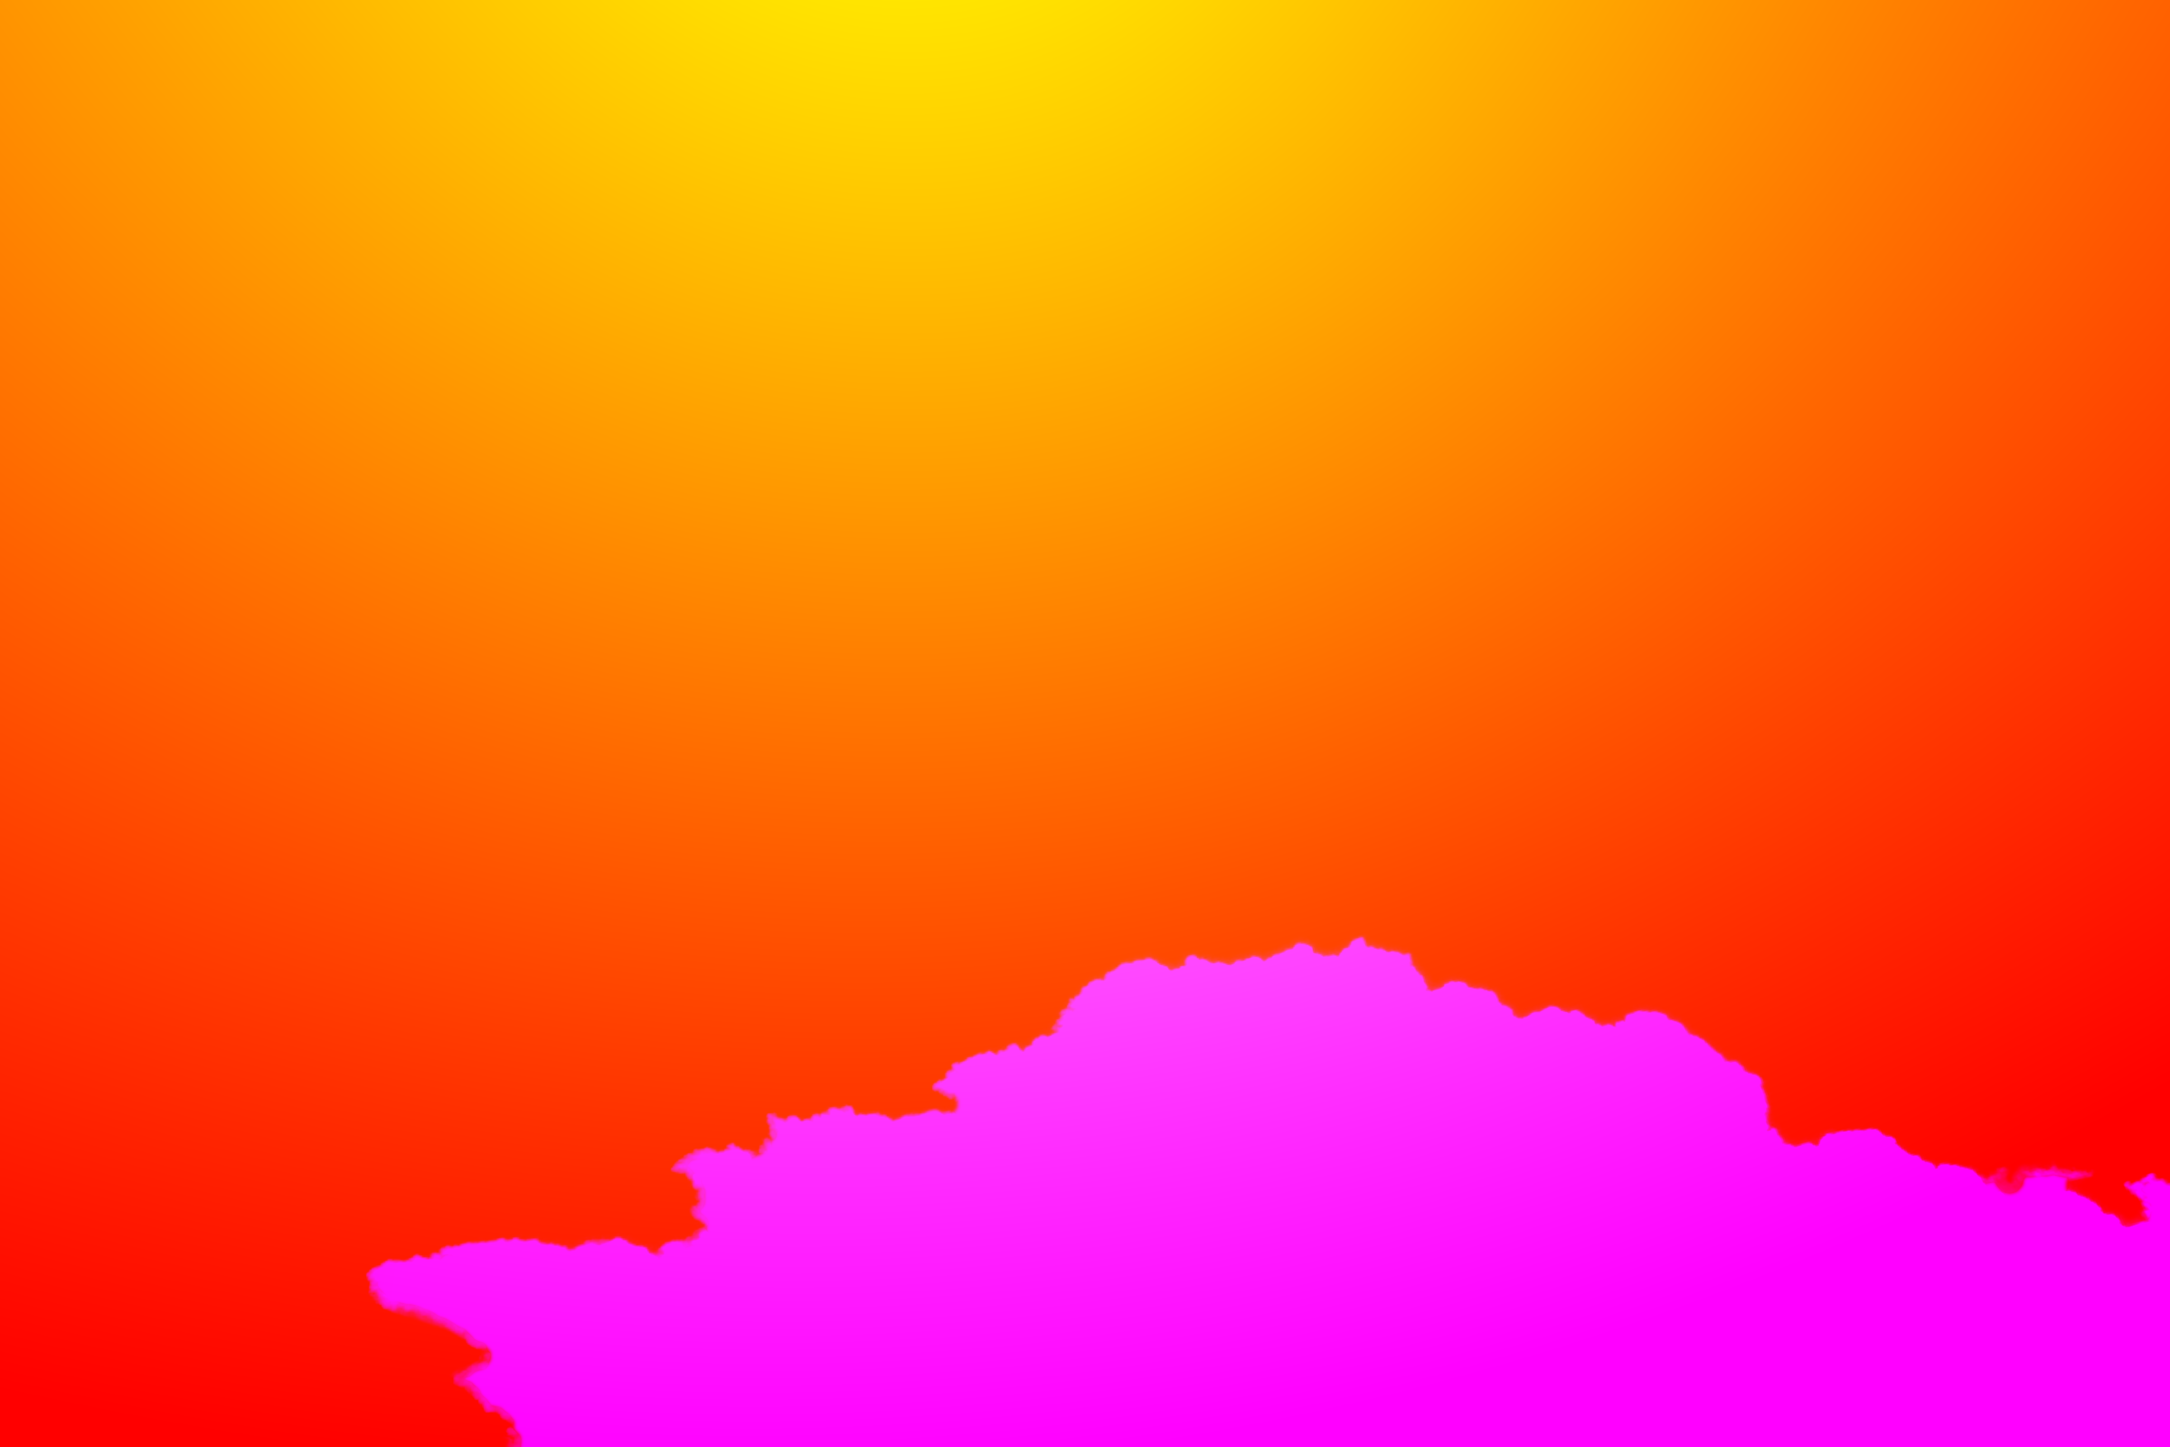
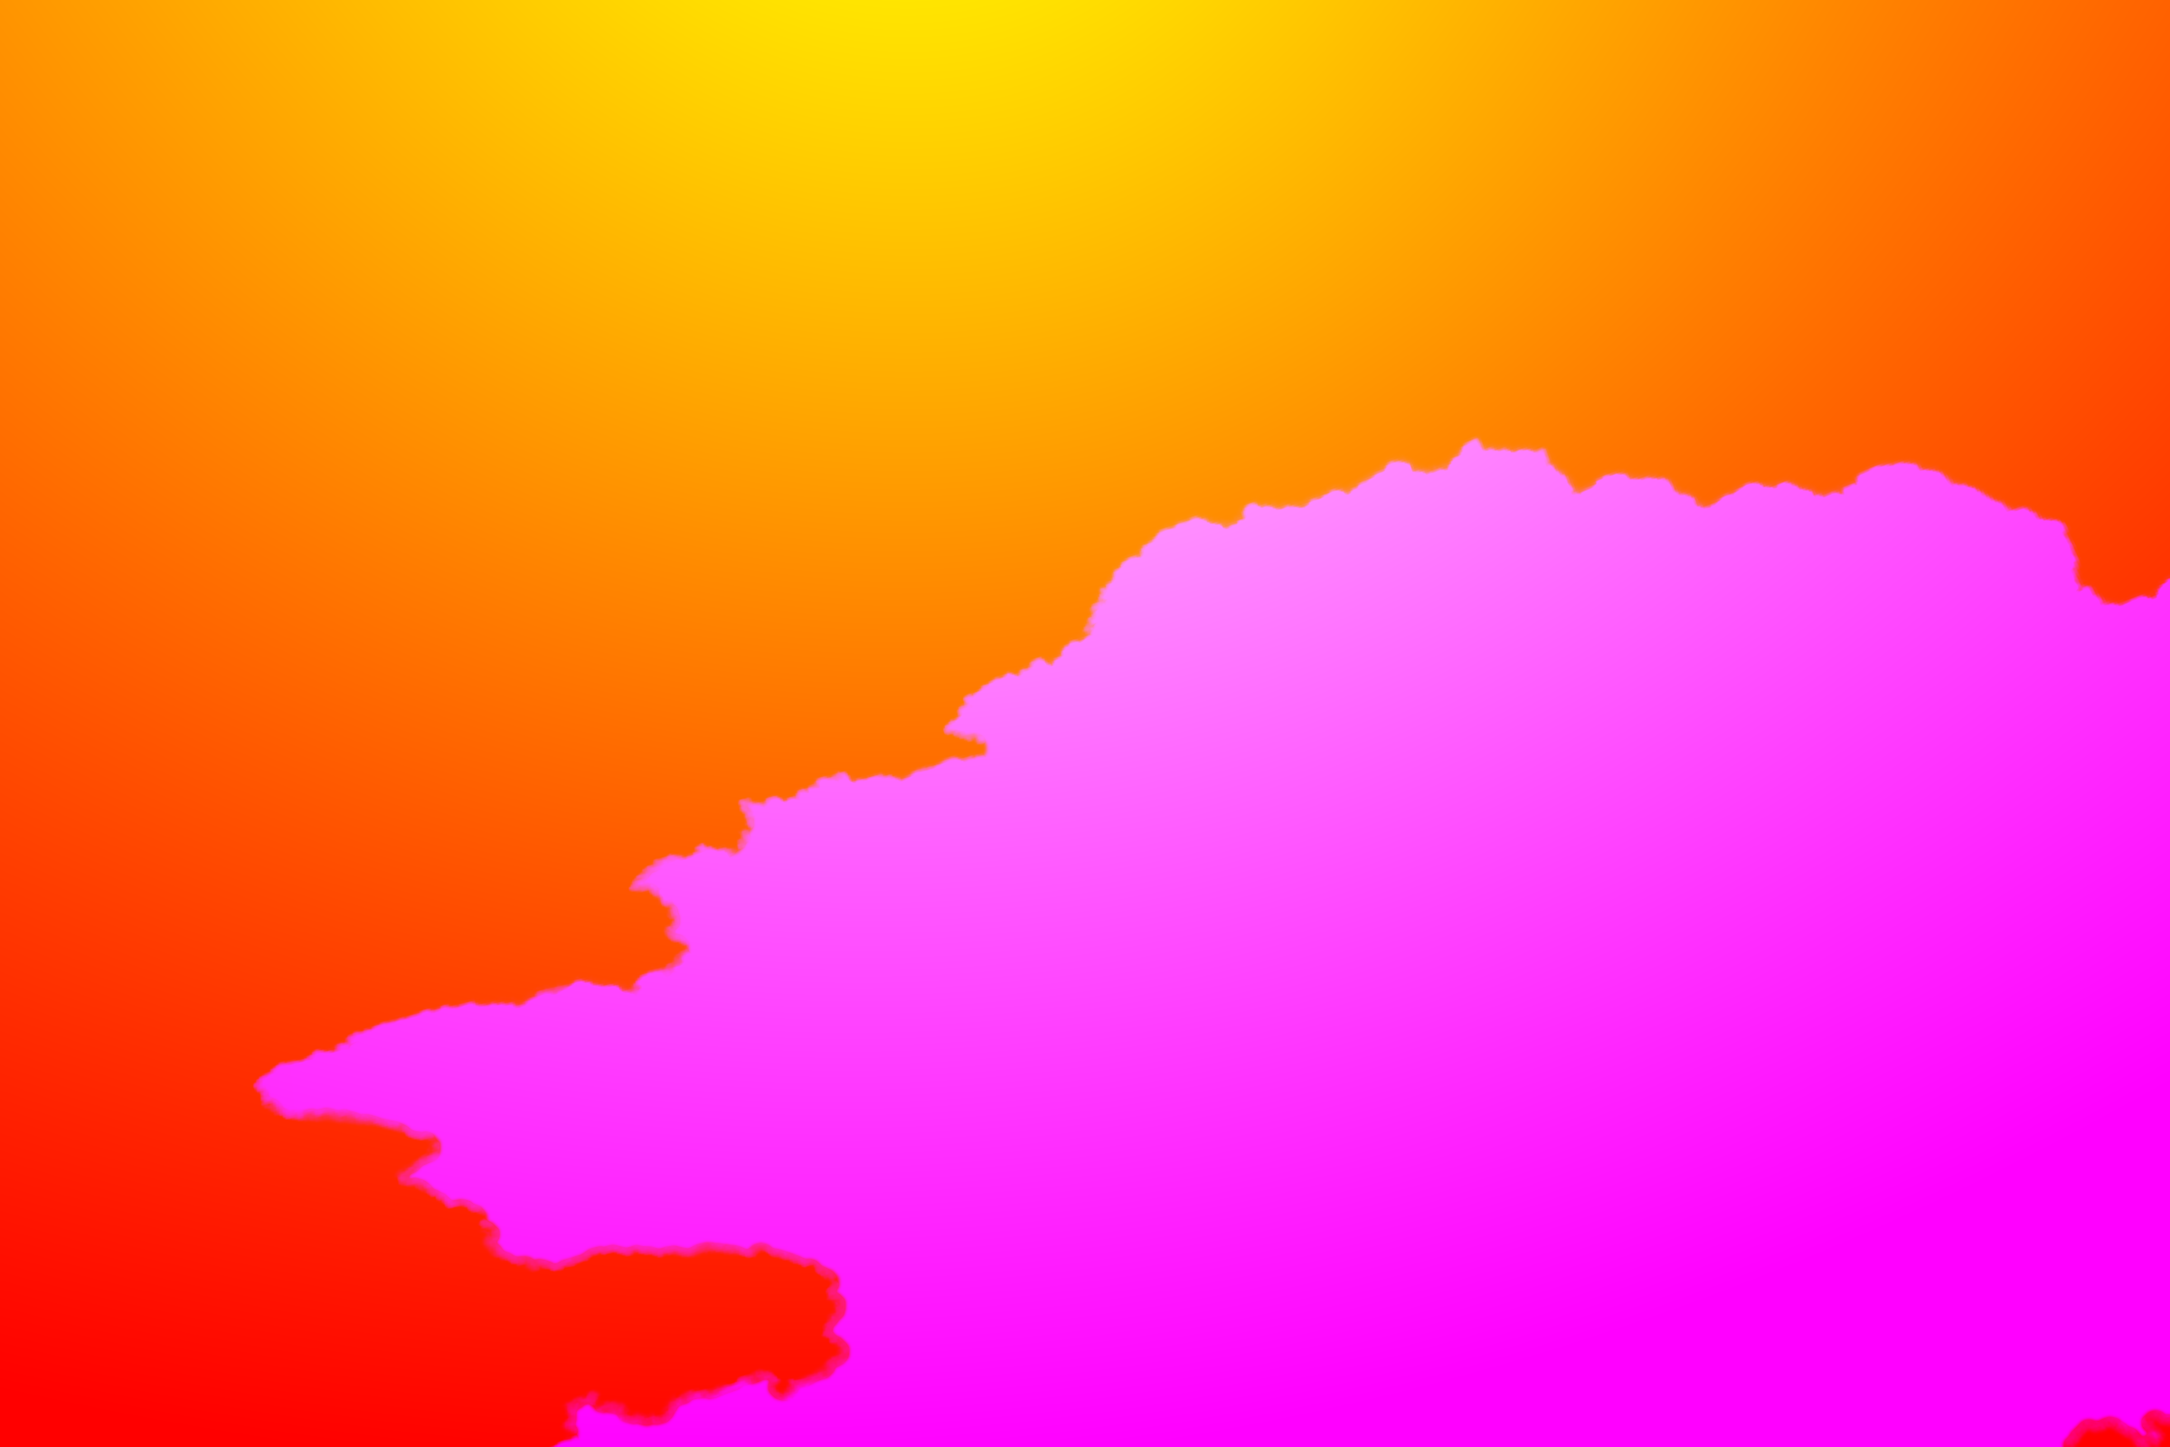
Lab: climb denchuka round 1
Claude-Session: https://claude.ai/code/session_01RqENhngNCzDFmJWDZueXGV

Changed region(s): [[0.125, 0.2812, 1.0, 1.0], [0.9375, 0.9688, 1.0, 1.0]]

diff --git a/src/app/lab/denchuka/denchukaEngine.js b/src/app/lab/denchuka/denchukaEngine.js
@@ -41,12 +41,12 @@ import { createFilm, FILM_PRESETS } from "../_kit/film";
 // diffusion and a warm halation ring keyed on luminance (GLOW), the ring the
 // only glow round the cumulus's edge, then its curve. The shaft and hardware
 // are graded as their own element (solidGrade): from directly beneath, the
-// concrete is in its own shade against a bright sky, a neutral-warm mid grey
+// concrete is in its own shade against a bright sky, a neutral-warm dark grey
 // with one narrow sunlit sliver, the firm dark anchor in front of the cloud.
 //
-// Behind the pole stands a real towering cumulus, its sunlit upper tower
-// rising out of the bottom of the frame behind the shaft, crown just under
-// the pole head, clear cobalt over it (cloud.py: Poly Haven's Skidpan HDRI,
+// Behind the pole stands a real towering cumulus, rising out of the bottom of
+// the frame behind the shaft and filling the right half of it, its crown up
+// behind the transformers, clear cobalt over it (cloud.py: Poly Haven's Skidpan HDRI,
 // CC0, cut at its own resolution and placed under this camera so its
 // verticals converge with the pole's), laid into the same regrade through
 // the same matte (sky.png B its soft coverage, cloud.webp its unmixed
@@ -186,50 +186,53 @@ vec3 skyGrade(vec3 c, float zen) {
 }
 // The towering cumulus (cloud.py: a photographed tower, unclipped, placed
 // under this camera) graded into the same light, so it glows and carries the
-// frame. Its upper half is sunlit: from the foot of the roll-off (~0.6 in the
-// bake) to the crowns it runs ~0.77-0.975 in the sun's own warm neutral, each
-// billow keeping its drawing, none of it clipped. Its body, in its own shade,
-// lit only by the sky, is a grey-blue (~205): its billows stretched about the
-// bake's shade so the folds between them go down to ~0.58 and the lobes come
-// up to ~0.76, a little deeper and bluer the higher up the sky it is (the
-// cobalt ramp, zen). One lightness curve runs through shade and sun, so no
-// lobe's edge steps or rings. The sun on the crowns is the same
+// frame: the bright subject the dark pole cuts across. Its upper half is
+// sunlit: from the foot of the roll-off (~0.6 in the bake) to the crowns it
+// runs ~0.87-0.985 in the sun's own warm neutral (the crowns at ~245-250 on
+// screen), each billow keeping its drawing, none of it clipped. Its body, in
+// its own shade, is lit by a whole bright summer sky and is still a lit white
+// (~0.82-0.88, ~190-215 on screen), only faintly skylight blue (~205): its
+// billows stretched about the bake's shade (x1.6) so the folds between them
+// go down to ~0.75 and no further (a deeper stretch reads as an overcast grey
+// mass, and mottles), a little deeper and bluer the higher up the sky it is
+// (the cobalt ramp, zen). One lightness curve runs through shade and sun, so
+// no lobe's edge steps or rings. The sun on the crowns is the same
 // sun as the concrete, a warm neutral (#fff9f3) that the film's own warmth
 // carries the rest of the way.
 const vec3 SUN = vec3(1.0, 0.978, 0.952);
 vec3 cloudGrade(vec3 c, float zen) {
   float v = dot(c, vec3(0.2126, 0.7152, 0.0722));
   // one lightness curve through shade and sun, so a lobe's edge never steps:
-  // the shade's billows stretched (x2.2 about the bake's ~0.58, the folds
-  // between them down to ~0.58, its lit lobes up to ~0.76), then a gentler
-  // run up through the sunlit flanks to the crowns (~0.975)
-  float L = v < 0.58 ? 0.76 + (v - 0.58) * 2.2 : 0.76 + (v - 0.58) * 0.55;
-  L = clamp(L, 0.5, 0.975);
+  // the shade's billows stretched (x1.6 about the bake's ~0.58, the folds
+  // between them down to ~0.75, its lit lobes up to ~0.86), then a gentler
+  // run up through the sunlit flanks to the crowns (~0.985)
+  float L = v < 0.58 ? 0.86 + (v - 0.58) * 1.6 : 0.86 + (v - 0.58) * 0.4;
+  L = clamp(L, 0.62, 0.985);
   // how much of the sun this face sees: its colour only, wide and soft
   float top = smoothstep(0.56, 0.86, v);
-  // skylight: a clear blue (hue ~206) in the shade pockets, deeper and a
-  // touch bluer up the sky, its saturation falling as a billow catches more
+  // skylight: a faint clear blue (hue ~206) in the shade pockets, deeper and
+  // a touch bluer up the sky, its saturation falling as a billow catches more
   // light; never pale cyan, never a dead grey
-  float ss = mix(0.3, 0.13, smoothstep(0.6, 0.88, L)) * mix(0.95, 1.1, zen);
+  float ss = mix(0.17, 0.07, smoothstep(0.8, 0.95, L)) * mix(0.95, 1.1, zen);
   vec3 shadeC = hsv2rgb(vec3((205.0 + 3.0 * zen) / 360.0, ss, L * mix(1.0, 0.97, zen)));
   vec3 sunC = SUN * L;
   return mix(shadeC, sunC, top);
 }
 // The concrete, seen from directly beneath: the face the camera sees is the
 // shaft's underside, in its own shade against a bright sky, so the pole is the
-// frame's one firm mid-dark silhouette, never a match for the cloud behind it.
+// frame's one firm dark silhouette, cut across the glowing tower behind it.
 // The scan has it lit and pale (its sunlit two thirds at ~0.66-0.86, the
-// shade third ~0.27-0.37, both close to the cumulus's ~0.74-0.96). Its value
-// is pulled down and compressed: the shade third to ~0.3, the body to a
-// neutral-warm mid grey (~0.40-0.50), and only the last sliver on the lit side,
-// where the scan is brightest, rises to ~0.65. Its darks (bolts, wires across
+// shade third ~0.27-0.37, both close to the cumulus's ~0.8-0.98). Its value
+// is pulled down and compressed: the shade third to ~0.25, the body to a
+// neutral-warm dark grey (~0.28-0.35, ~70-90 on screen), and only the last
+// sliver on the lit side, where the scan is brightest, rises to ~0.5-0.6. Its darks (bolts, wires across
 // it, the transformers' undersides) keep their own value. Colour: a neutral
 // warm grey (hue ~35, chroma near zero), with a trace of the scan's own so
 // its stains and seams stay in it. The hardware's lit faces take the same.
 vec3 solidGrade(vec3 c) {
   float v = dot(c, vec3(0.2126, 0.7152, 0.0722));
-  float body = 0.29 + 0.21 * smoothstep(0.22, 0.8, v);
-  float g = min(body, v + 0.03) + 0.15 * smoothstep(0.85, 0.91, v);
+  float body = 0.25 + 0.1 * smoothstep(0.22, 0.8, v);
+  float g = min(body, v + 0.03) + 0.2 * smoothstep(0.85, 0.91, v);
   vec3 tint = vec3(1.022, 0.998, 0.968);
   vec3 chroma = (c - vec3(v)) * (g / max(v, 0.05));
   return clamp(g * tint + 0.12 * chroma, 0.0, 1.0);

diff --git a/tools/depth/bakes/denchuka/cloud.py b/tools/depth/bakes/denchuka/cloud.py
@@ -8,9 +8,10 @@
 #
 # The scan's sky has no cloud worth the name: a few wisps and a grey fragment cut
 # off at the top right. This puts a real, photographed towering cumulus behind
-# the pole as the clean sky's subject: its sunlit upper tower rises out of the
-# bottom of the frame behind the shaft, crown just under the pole head, with
-# clear cobalt over it, its anvil shelf running out to the left, so each
+# the pole as the frame's bright subject: the tower rises out of the bottom of
+# the frame behind the shaft and fills its right half, its crown up behind the
+# transformers, so the dark pole and its hardware cut across glowing cloud,
+# with clear cobalt over it and its anvil shelf running out to the left. Each
 # removal (the wires, then the hardware, then the pole) uncovers more of it and
 # the clean sky at the end has a subject.
 #
@@ -23,17 +24,16 @@
 # from elements.json, export.py): the cloud stands in a vertical plane through
 # the zenith, so its verticals converge on the same vanishing point as the
 # pole's, and the camera's roll tilts it with the pole. It is cut from the 16k
-# HDRI at its own resolution: 1.5 times its angles, which makes one HDRI pixel
-# one plate pixel, so its billows are as sharp as the photograph's wires and
-# the two read as one exposure. (A bigger tower, blown up from the HDRI, went
-# soft and pasted-in.) At that size the HDRI's tower, 27.6 deg up at its
-# crown, has only ~12 deg of cloud over the tree in front of its flank, so
-# it is set low in the frame, crown at plate (1300, 1010) just under the pole
-# head, turned LEAN degrees about its crown so its lower edge runs with the
-# frame's: the HDRI's tree line, and the lower body under it, stay below the
-# bottom of the frame. The only cloud on screen is the sunlit upper tower,
-# rising out of the bottom of the frame behind the shaft, with clear cobalt
-# over it.
+# HDRI at nearly its own resolution: 2 times its angles, about 0.72 HDRI pixel
+# to a plate pixel, so its billows stay close to as sharp as the photograph's
+# wires and the two read as one exposure. (Much bigger, blown up from the HDRI,
+# it went soft and pasted-in; at 1.5, one to one, it was too small to stand
+# behind the pole head without the HDRI's ground coming into the frame.) Its
+# crown is at plate (1350, 500), up behind the transformers, turned LEAN
+# degrees about it; the tower then fills the right half of the frame down to
+# its bottom edge, and the eucalyptus that stands under its crown in the HDRI
+# is replaced with the tower's own body (the ground, below): the HDRI's fence
+# line under that stays below the bottom of the frame.
 #
 # Matte: the sky in the HDRI is a saturated blue, the cloud near neutral, so
 # the cloud's coverage is how far a pixel's blue excess q = (B - R) / (B + R)
@@ -72,12 +72,12 @@ preview = sys.argv[3] if len(sys.argv) > 3 else None
 U_CROWN, EL_CROWN = 0.163, 27.6
 # ... and it lands at plate (AX, AY), magnified MAG times (angles) up it and
 # MAGB across. At 1.5 one HDRI pixel (16k: 45.5 px a degree) is one plate
-# pixel (f 1760: 30.7 px a degree): the tower is cut at the HDRI's own
-# resolution, its billows as sharp as the photograph's wires, never a
-# resampled blow-up of them.
-AX, AY = 1300.0, 1010.0
-MAG = 1.5
-MAGB = 1.5
+# pixel (f 1760: 30.7 px a degree); at 2 the tower is drawn up a third from
+# the HDRI's own pixels, never a soft blow-up of them, and is big enough to
+# carry the right half of the frame.
+AX, AY = 1350.0, 500.0
+MAG = 2.0
+MAGB = 2.0
 # turned LEAN degrees about the crown off the true vertical through it
 LEAN = 4.0
 if os.environ.get("CLOUD_PLACE"):  # exploration: "AX,AY,MAG,MAGB,LEAN"
@@ -142,7 +142,10 @@ hdr = cv2.imread(src, cv2.IMREAD_UNCHANGED)
 EH, EW = hdr.shape[:2]
 uu = (U_CROWN + az / (2 * np.pi)) * EW - 0.5
 vv = (0.5 - np.radians(el) / np.pi) * EH - 0.5
-x0, x1 = int(np.floor(uu.min())) - 4, int(np.ceil(uu.max())) + 4
+# (and, past its right edge, the tower's tree-free right flank that is cloned
+# in behind the tree at its foot: FILL_D below)
+FILL_D = (13.0, 19.0)
+x0, x1 = int(np.floor(uu.min())) - 4, int(np.ceil(uu.max())) + 4 + int(max(FILL_D) / 360 * EW) + 60
 y0, y1 = max(0, int(np.floor(vv.min())) - 4), min(EH, int(np.ceil(vv.max())) + 400)
 win = hdr[y0:y1, x0:x1, ::-1].astype(np.float32).copy()  # RGB
 del hdr
@@ -163,17 +166,58 @@ print(f"power lines: {line.mean() * 100:.2f}% of the window")
 win = push_pull(win, (~line).astype(np.float32)) * line[..., None] + win * (~line)[..., None]
 # The ground. Under the tower, in the HDRI, stand trees, a lamp post and a
 # fence: in each of its columns, the highest thing that is neither sky nor
-# cloud (dark, and not blue), its envelope smoothed across the columns. The
-# tallest tree reaches ~16 deg, halfway up the tower. Nothing at or under it
-# is used: the tower is placed so that its foot, and the HDRI's tree line with
-# it, is below the bottom of the frame, and the only cloud on screen is its
-# sunlit upper tower. (Should the envelope come into the frame, the cloud is
-# cut off just above it.)
-wq = (win[..., 2] - win[..., 0]) / np.maximum(win[..., 2] + win[..., 0], 1e-6)
-wY = win @ np.array([0.2126, 0.7152, 0.0722], np.float32)
-rowY = np.median(wY[: max(8, (vv.min() - y0).astype(int) + 8)], axis=0)  # the sky high above, per column
-ground = (wY < 0.55 * np.maximum(rowY, 1e-6)) & (wq < 0.32)
-ground = cv2.morphologyEx(ground.astype(np.uint8), cv2.MORPH_OPEN, np.ones((3, 3), np.uint8)) > 0
+# cloud (dark, and not blue). The tallest tree, a eucalyptus standing right
+# under the crown, reaches ~15 deg, halfway up the tower; with the tower set
+# high in the frame (its crown behind the pole head) the frame's bottom edge
+# runs across that tree's crown. Behind it the tower's body runs on down to
+# the horizon, as it does a few degrees to the right, where nothing stands in
+# front of it above the fence (~6 deg): so what the tree hides is filled with
+# the tower's own right flank, shifted across by FILL_D degrees at the same
+# elevation (a turret's shading stays where the sun puts it), its light matched
+# to the body it fills (the log ratio of the two, known in the cloud round the
+# tree, drawn in by a membrane) and feathered into it. Whatever ground is left
+# under that (the fence, the lamp post's foot) is the new tree line; nothing at
+# or under it is used, and it stays below the bottom of the frame.
+def ground_of(win):
+    wq = (win[..., 2] - win[..., 0]) / np.maximum(win[..., 2] + win[..., 0], 1e-6)
+    wY = win @ np.array([0.2126, 0.7152, 0.0722], np.float32)
+    rowY = np.median(wY[: max(8, (vv.min() - y0).astype(int) + 8)], axis=0)  # the sky high above, per column
+    g = (wY < 0.55 * np.maximum(rowY, 1e-6)) & (wq < 0.32)
+    return cv2.morphologyEx(g.astype(np.uint8), cv2.MORPH_OPEN, np.ones((3, 3), np.uint8)) > 0
+
+
+def band_of(g):
+    # every row under the highest ground in its column (and its leaves' fringe)
+    t = np.where(g.any(0), g.argmax(0), g.shape[0]).astype(np.float32)
+    t = cv2.erode(t[None], np.ones((1, 13), np.float32))[0]
+    return np.arange(g.shape[0])[:, None] >= t[None] - 28
+
+
+ground = ground_of(win)
+treeTop = 90 - (np.where(ground.any(0), ground.argmax(0), win.shape[0]).min() + y0 + 0.5) / EH * 180
+lw = np.log(np.maximum(win, 1e-5))
+for D in FILL_D:
+    Dp = int(round(D / 360 * EW))
+    band = band_of(ground)
+    shift = lambda v: np.concatenate([v[:, Dp:], np.repeat(v[:, -1:], Dp, 1)], 1)
+    win_s, band_s = shift(win), shift(band)
+    m = band & ~band_s
+    # light matched to the body round the tree: the ratio of the original to the
+    # copy, known in a ring 20-60 px clear of the tree in both, drawn inward
+    ls_ = np.log(np.maximum(win_s, 1e-5))
+    bu = band.astype(np.uint8)
+    ring = (cv2.dilate(bu, cv2.getStructuringElement(cv2.MORPH_ELLIPSE, (121, 121))) > 0) \
+        & ~(cv2.dilate(bu, cv2.getStructuringElement(cv2.MORPH_ELLIPSE, (41, 41))) > 0) & ~band_s
+    gain = cv2.GaussianBlur(push_pull((lw - ls_).astype(np.float32), ring.astype(np.float32)), (0, 0), 12)
+    # feathered outward into the cloud round it, never across the copy's own ground
+    mf = np.clip(cv2.GaussianBlur(m.astype(np.float32), (0, 0), 16) * 2, 0, 1) * ~band_s
+    mf = np.maximum(mf, m)[..., None]
+    win = win * (1 - mf) + np.exp(ls_ + gain) * mf
+    lw = np.log(np.maximum(win, 1e-5))
+    print(f"tree fill at +{D:g} deg: {m.sum()} px")
+    ground = ground_of(win)
+print(f"ground: highest {treeTop:.1f} deg before the fill, "
+      f"{90 - (np.where(ground.any(0), ground.argmax(0), win.shape[0]).min() + y0 + 0.5) / EH * 180:.1f} after")
 top = np.where(ground.any(0), ground.argmax(0), win.shape[0]).astype(np.float32)
 # envelope: the highest ground within a few columns either side, then smoothed
 k = max(3, int(win.shape[1] * 0.02))
